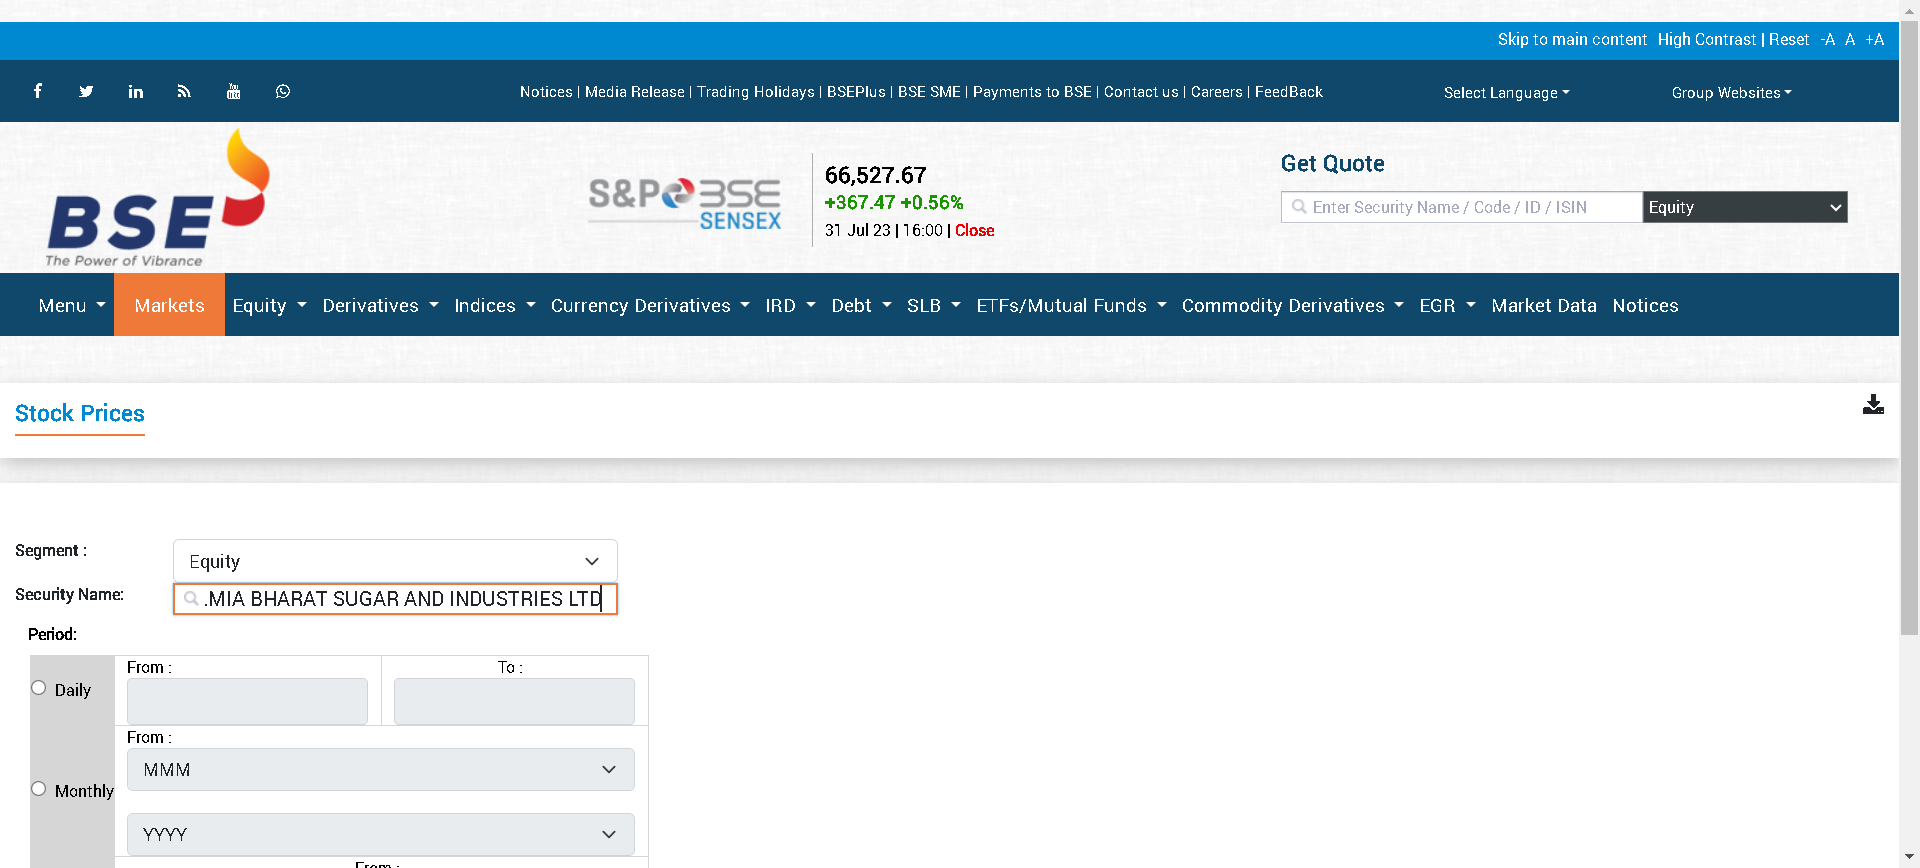
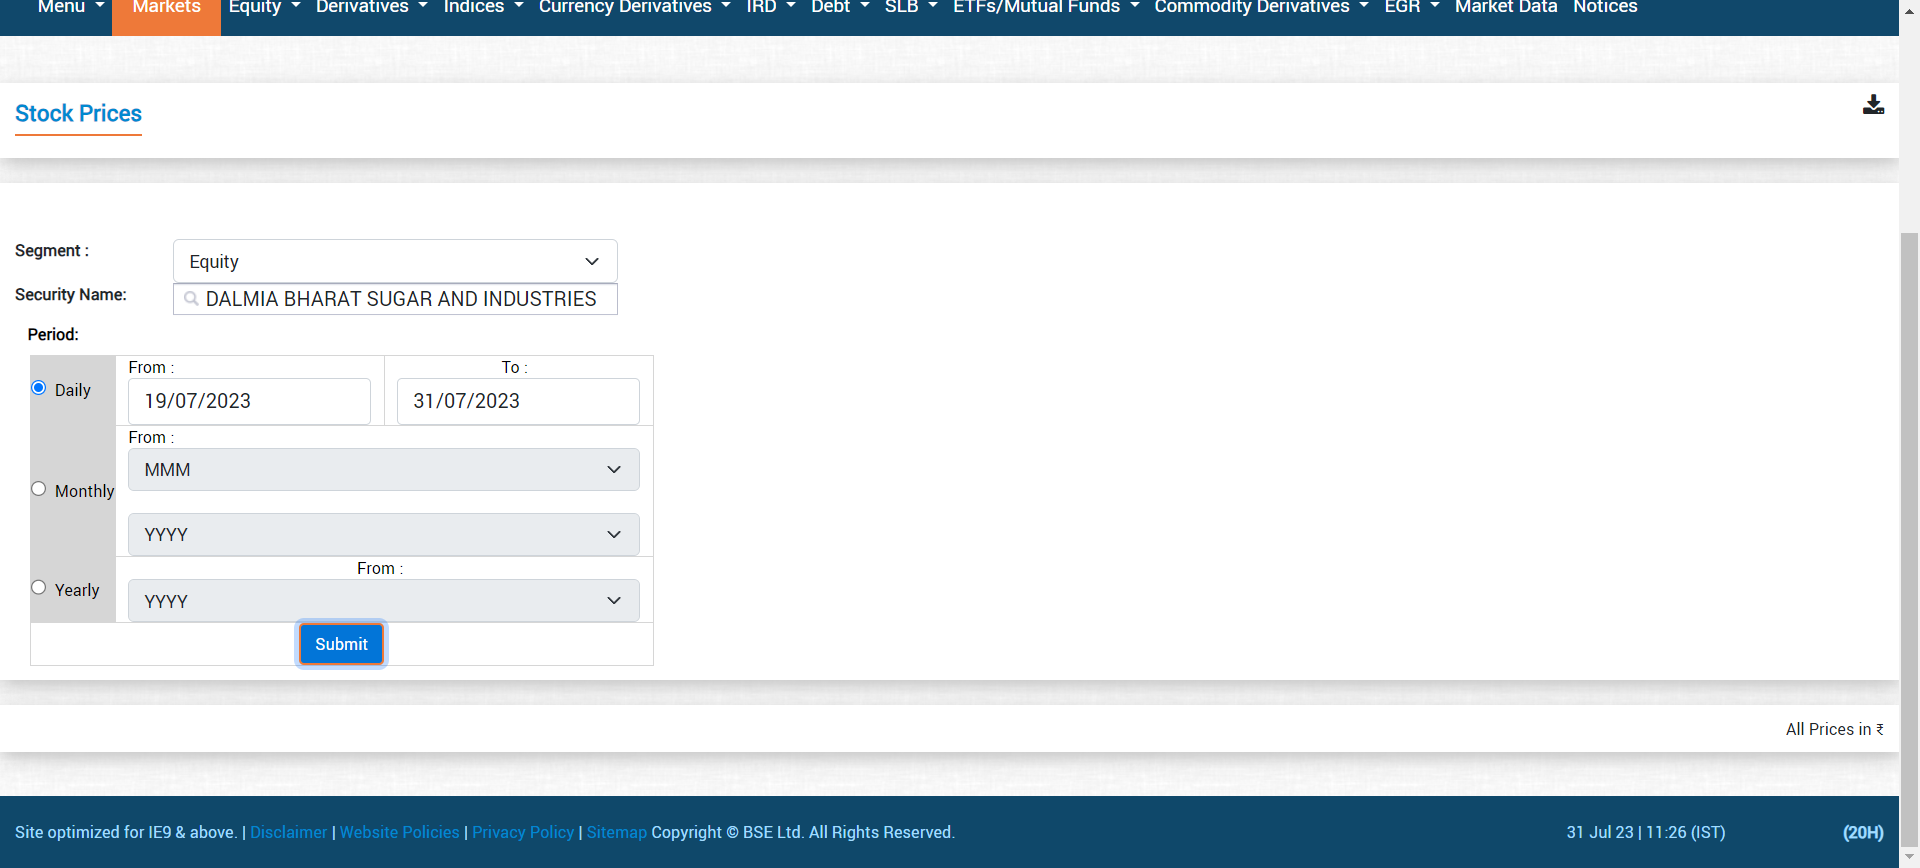
selenium

diff --git a/fafo.py b/fafo.py
@@ -1,7 +1,10 @@
 from selenium import webdriver
+from selenium.webdriver.support.wait import WebDriverWait
 from webdriver_manager.chrome import ChromeDriverManager
 from selenium.webdriver.chrome.service import Service as ChromeService
 from selenium.webdriver.common.by import By
+from selenium.webdriver.support import expected_conditions as EC
+import time
 
 # Setup chrome driver
 service = ChromeService(executable_path=ChromeDriverManager().install())
@@ -14,16 +17,38 @@ driver.get('https://www.bseindia.com/markets/equity/EQReports/StockPrcHistori.ht
 driver.maximize_window()
 
 # Find input text field
+
+#to populate security name textfield
 input_text_fname = driver.find_element(By.ID, 'scripsearchtxtbx')
-
-# Take a screenshot before entering a value
-driver.save_screenshot("screenshot-1.png")
-
 # Enter a value in the input text field
 input_text_fname.send_keys("DALMIA BHARAT SUGAR AND INDUSTRIES LTD")
 
-#to select radiobutton
-driver.find_element_by_xpath("//input[@value='D']").click()
+#to select daily radiobutton
+radio_button = driver.find_element(By.XPATH, "//input[@name='amit' and @value='D']")
+radio_button.click()
+
+#to populate from date textfield
+from_text_fname = driver.find_element(By.ID, 'txtFromDate')
+# Enter a value in the input text field
+#from_text_fname.send_keys("01/07/2023")
+
+
+driver.find_element(By.XPATH, "//input[@class='form-control hasDatepicker' and @id='txtFromDate']").send_keys("10-04-2018")
+
+time.sleep(5)
+#to populate to date textfield
+to_text_fname = driver.find_element(By.ID, 'txtToDate')
+# Enter a value in the input text field
+
+driver.find_element(By.XPATH, "//input[@class='form-control hasDatepicker' and @id='txtToDate']").send_keys("20-04-2018")
+time.sleep(5)
+#to_text_fname.send_keys("31/07/2023")
+
+#to select daily radiobutton
+bt = driver.find_element(By.ID, "btnSubmit")
+bt.click()
+
+time.sleep(10)
 
 # Take a screenshot after entering a value
 driver.save_screenshot("screenshot-2.png")

diff --git a/main.py b/main.py
@@ -1,3 +1,6 @@
+#https://api.bseindia.com/BseIndiaAPI/api/StockPriceCSVDownload/w?pageType=undefined&rbType=D&Scode=543671&FDates=01/02/2023&TDates=16/03/2023
+
+
 # pip install beautifulsoup4
 # pip install selenium
 
